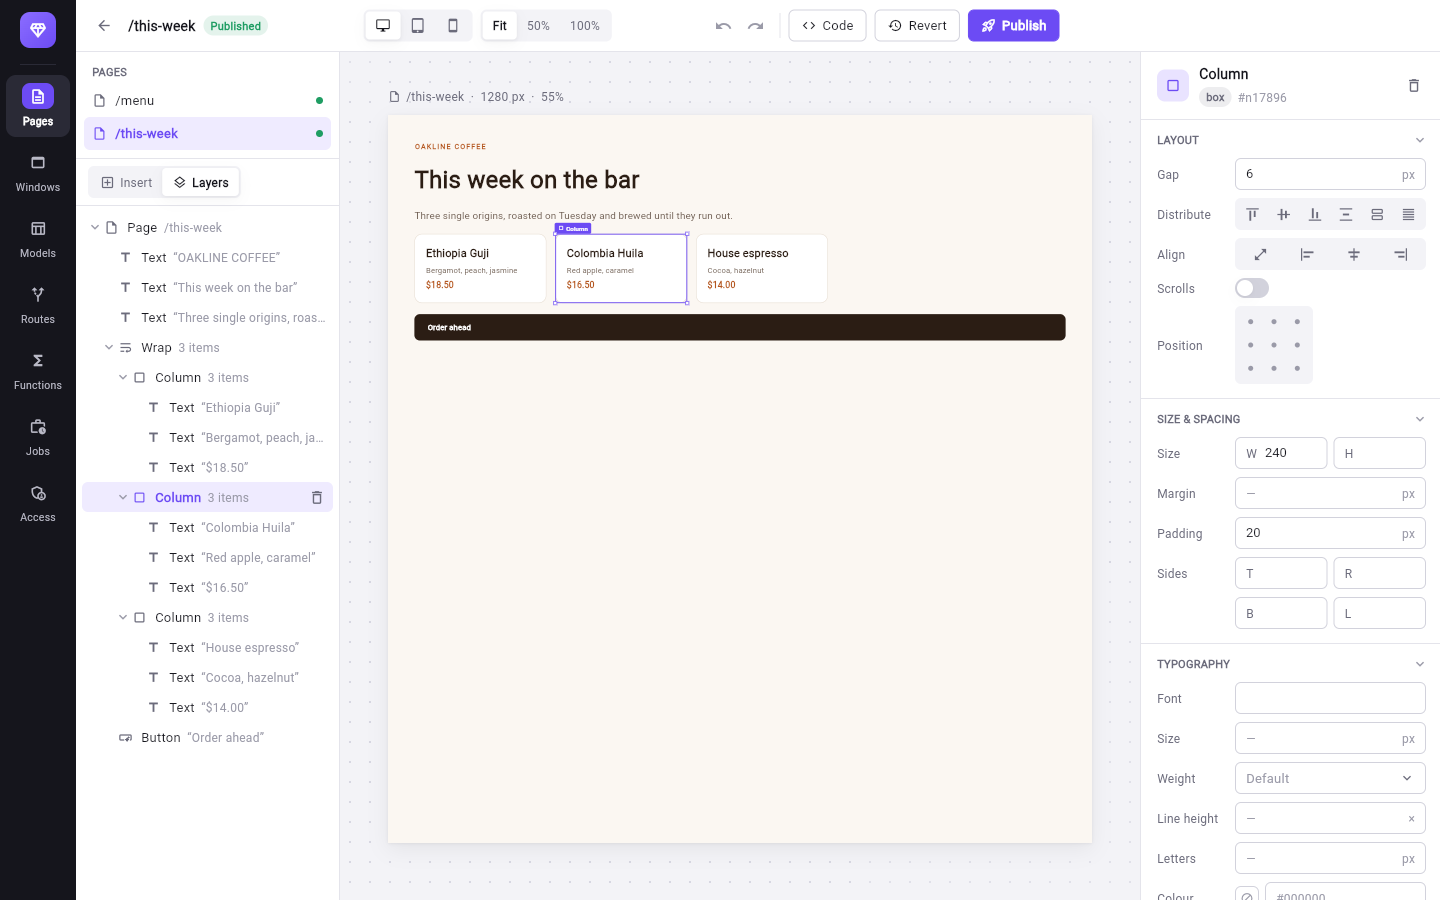
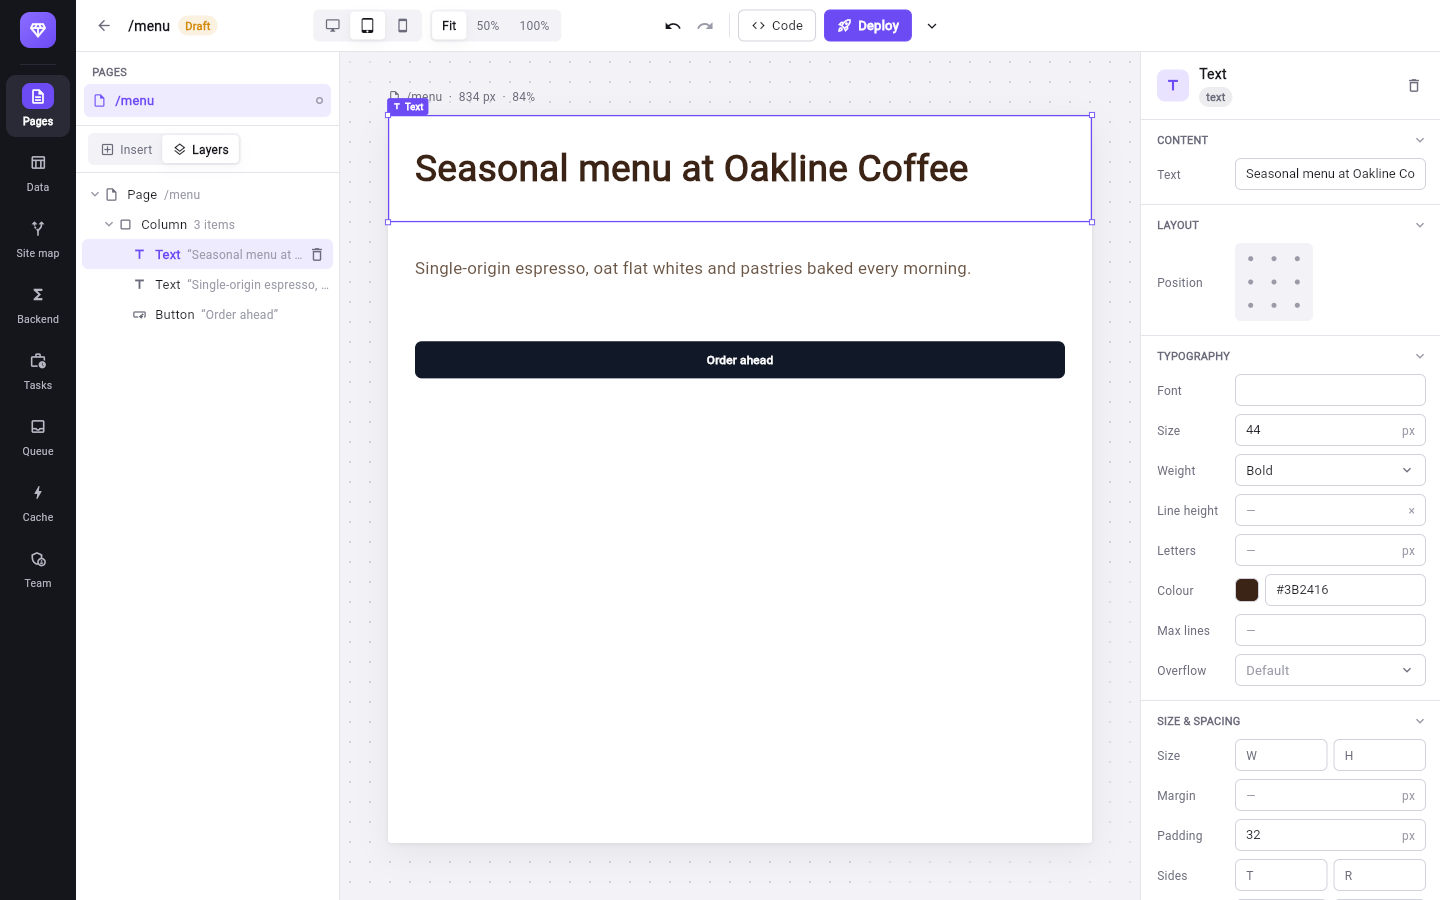
docs(site): new Studio screenshots, with Deploy, its menu and the plain section names
Page builder, the Deploy menu and Data are from a web-server binary built
at 68e96d3a. The workflow builder is Studio Pro rendered against the same
framework, so its button reads Deploy and the rail has no Windows.

diff --git a/sites/dartvel_site/lib/pages/studio.dart b/sites/dartvel_site/lib/pages/studio.dart
@@ -39,10 +39,10 @@ Widget _studioPage(BuildContext context) => const SingleChildScrollView(
         ]),
         StudioShot(
           'assets/studio/page-builder.png',
-          'Dartvel Studio page builder with the Layers tree, a selected card '
-              'on the canvas and the inspector',
+          'Dartvel Studio page builder with the Layers tree, a selected '
+              'heading on the canvas and the inspector',
           caption: 'The page builder served by a web-server binary: Layers on '
-              'the left, the selected card on the canvas, its styles on the '
+              'the left, the selected heading on the canvas, its styles on the '
               'right.',
         ),
       ],
@@ -92,6 +92,13 @@ Widget _studioPage(BuildContext context) => const SingleChildScrollView(
           'Code shows the page as an @DVPage file you can keep in your '
               'repository.',
         ]),
+        StudioShot(
+          'assets/studio/deploy-menu.png',
+          'The Deploy button open on its menu: Deploy now, and Restore '
+              'original page',
+          caption: 'Deploy puts the page live. Its menu also restores the page '
+              'from your last build.',
+        ),
         Objection(
           'Does deploying a page need a rebuild?',
           'No. On your web-server, a deployed page takes over its route '

diff --git a/sites/dartvel_site/lib/pages/index.dart b/sites/dartvel_site/lib/pages/index.dart
@@ -337,7 +337,7 @@ Widget _studioProof(BuildContext context) => const Section(
     ]),
     StudioShot(
       'assets/studio/page-builder.png',
-      'Dartvel Studio page builder with the Layers tree, a selected card '
+      'Dartvel Studio page builder with the Layers tree, a selected heading '
           'on the canvas and the inspector',
     ),
     DVBox.wrapLine(<Widget>[GhostLink('See Studio and Studio Pro', '/studio')]),
